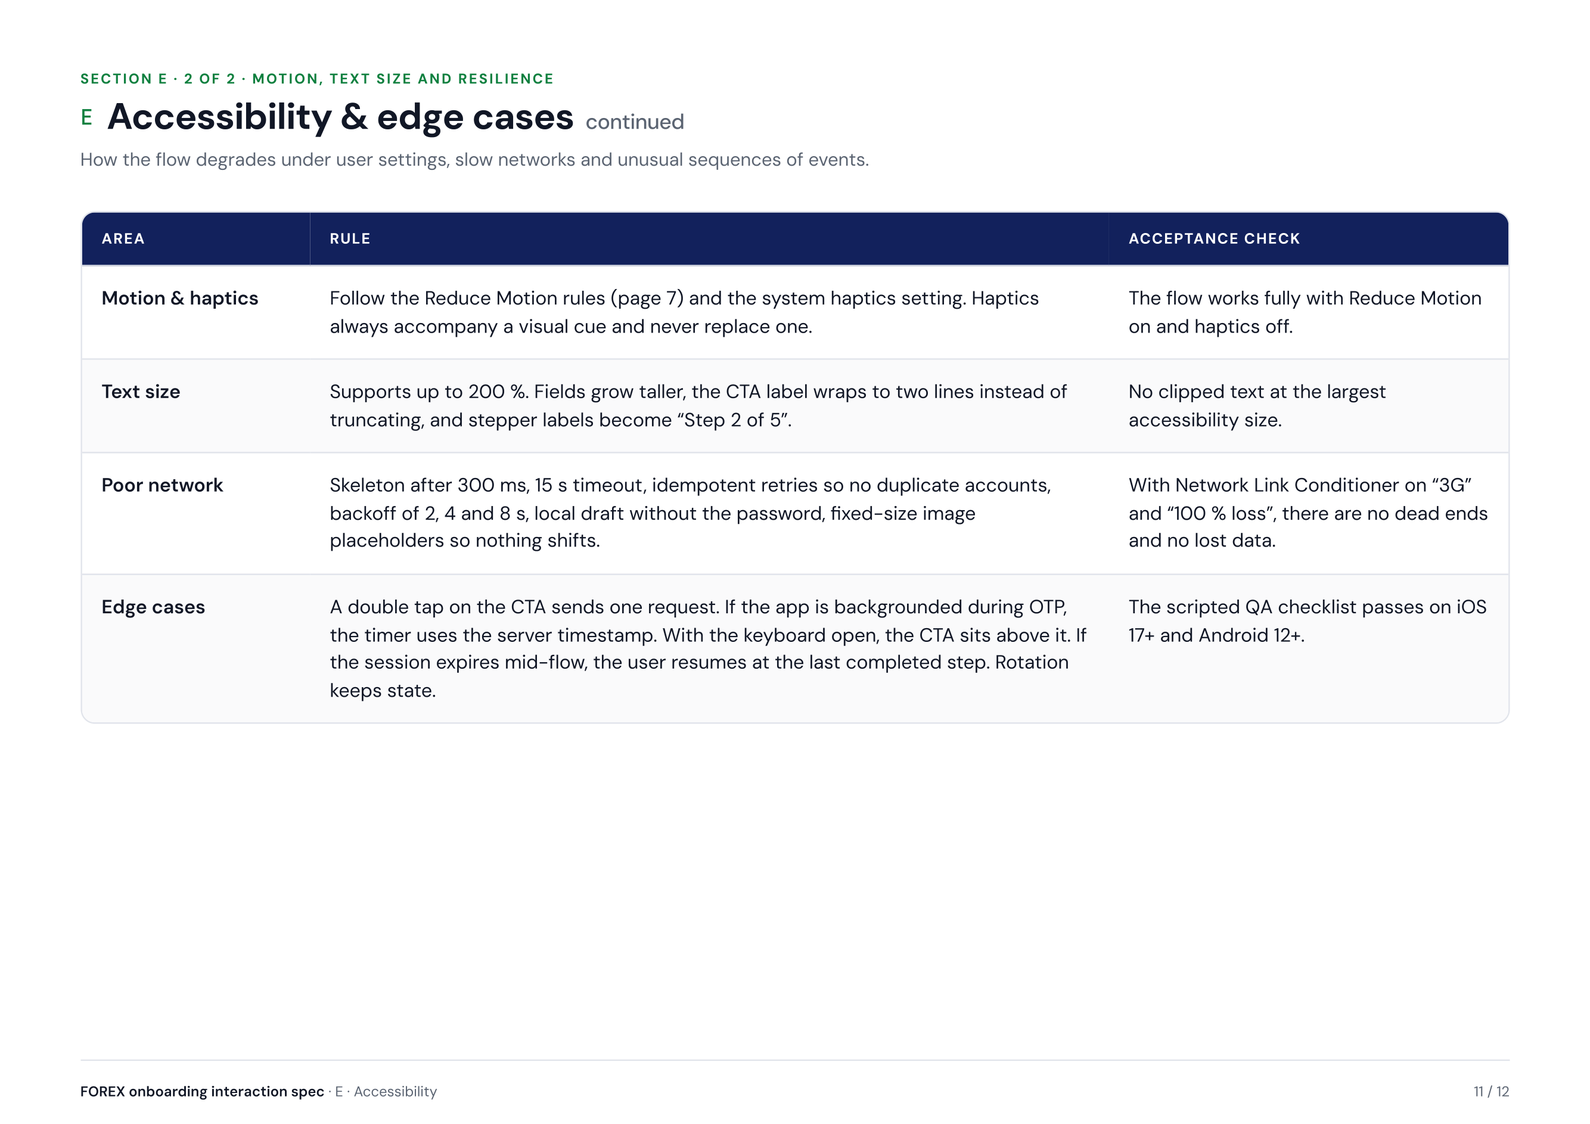
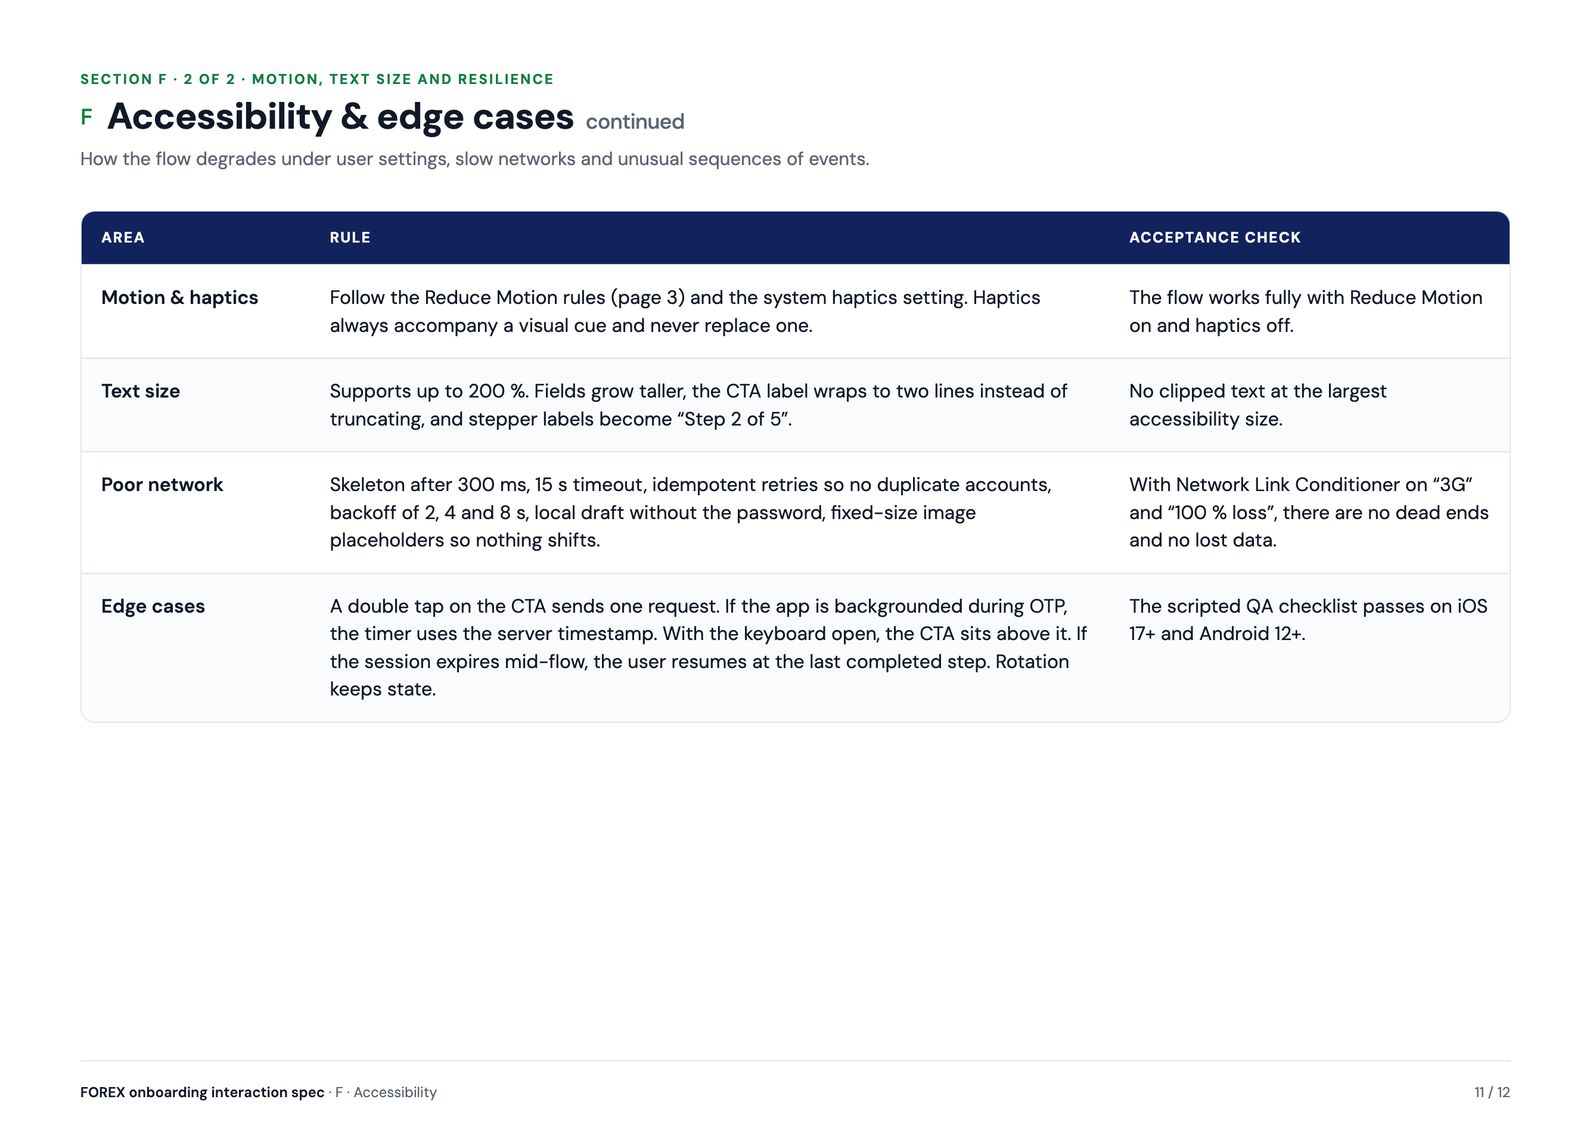
portfolio: handoff spec — reorder sections, link contents, live easing demos
- Move motion sections after Foundations; relabel all sections A–G
  (Principles is now A) and update the cover contents and page numbers
- Make each cover contents row a link that scrolls to its section
- Replace page 4 (B · Easing curves) with a live HTML page: looping
  easing examples, Replay buttons and a 4× slow-motion toggle

diff --git a/portfolio/interaction-design-handoff-spec.html b/portfolio/interaction-design-handoff-spec.html
@@ -7,7 +7,7 @@
   <meta name="description" content="Interaction design handoff specification by Jacek Waz — FOREX onboarding triggers, states, motion and accessibility." />
   <link rel="preconnect" href="https://fonts.googleapis.com" />
   <link rel="preconnect" href="https://fonts.gstatic.com" crossorigin />
-  <link href="https://fonts.googleapis.com/css2?family=ADLaM+Display&family=Inter:wght@400;500;600;700;800&display=swap" rel="stylesheet" />
+  <link href="https://fonts.googleapis.com/css2?family=ADLaM+Display&family=Inter:wght@400;500;600;700;800&family=DM+Sans:opsz,wght@9..40,400;9..40,500;9..40,600;9..40,700&family=JetBrains+Mono:wght@400;500&display=swap" rel="stylesheet" />
 
   <style>
     /* =========================================================
@@ -191,6 +191,114 @@
       border-radius:12px;
       border:1px solid #E7E7E5;        /* white PDF pages on a white panel */
     }
+
+    /* ---------- Cover: clickable Contents rows over the image ---------- */
+    .gallery__cover{ position:relative; }
+    .toc-link{
+      position:absolute;
+      left:61%;                        /* Contents rows, as % of the cover image */
+      width:30.8%;
+      height:4.1%;
+      border-radius:6px;
+      transition:background-color .18s ease;
+    }
+    .toc-link:hover{ background:rgba(255,255,255,.08); }
+    .toc-link:focus-visible{ outline:2px solid var(--blue); outline-offset:2px; }
+
+    /* ---------- Live page: B · Easing curves (animated, replaces 4.png) ----------
+       Laid out at the print page size (297 × 210 mm = 1122.5 × 793.7 px) with the
+       spec's own styles, then scaled to the gallery width like the PNG pages. */
+    .mip-wrap{
+      position:relative;
+      width:100%;
+      aspect-ratio:2668 / 1886;
+      overflow:hidden;
+      border-radius:12px;
+      border:1px solid #E7E7E5;
+      background:#FFFFFF;
+    }
+    .mip{
+      --fg:#111827; --muted:#5B6472; --line:#E1E5EB; --surface:#FFFFFF; --surface-2:#F1F3F6;
+      --navy:#12225C; --brand:#10803F; --brand-soft:#E8F5EE; --warn:#B45309; --warn-soft:#FFF7E6;
+      --mono:"JetBrains Mono", ui-monospace, "SF Mono", Menlo, monospace;
+      --slow:1;
+      --ease-enter:cubic-bezier(0.2, 0, 0, 1);
+      --ease-exit:cubic-bezier(0.3, 0, 1, 1);
+      --ease-standard:cubic-bezier(0.4, 0, 0.2, 1);
+      --ease-success:cubic-bezier(0.34, 1.56, 0.64, 1);
+      position:absolute; top:0; left:0;
+      width:1122.5px; height:793.7px;
+      transform:scale(var(--k, 1)); transform-origin:top left;
+      padding:49px 57px 0;
+      display:flex; flex-direction:column;
+      font-family:"DM Sans", ui-sans-serif, system-ui, sans-serif;
+      font-size:12px; line-height:1.45; color:var(--fg);
+      -webkit-font-smoothing:antialiased;
+    }
+    .mip code{ font-family:var(--mono); font-size:.88em; }
+    .mip-ph{ display:flex; flex-direction:column; gap:4px; margin-bottom:22px; }
+    .mip-eyebrow{ font-size:10px; font-weight:700; letter-spacing:.12em; text-transform:uppercase; color:var(--brand); }
+    .mip h2{ margin:0; font-size:26px; line-height:1.15; letter-spacing:-.01em; font-weight:700; }
+    .mip h2 .mip-tag{ font-family:var(--mono); font-size:15px; font-weight:500; color:var(--brand); margin-right:10px; vertical-align:3px; }
+    .mip-lede{ margin:2px 0 0; color:var(--muted); font-size:13px; max-width:756px; }
+
+    .mip-bar{ display:flex; align-items:center; justify-content:space-between; gap:24px; margin-bottom:14px; }
+    .mip-bar p{ margin:0; color:var(--muted); font-size:12.5px; max-width:640px; }
+    .mip-slowmo{ display:inline-flex; align-items:center; gap:8px; font-size:12.5px; font-weight:600; cursor:pointer; white-space:nowrap; }
+    .mip-slowmo input{ width:15px; height:15px; margin:0; accent-color:var(--brand); cursor:pointer; }
+
+    .mip-curves{ display:grid; grid-template-columns:repeat(4, minmax(0, 1fr)); gap:19px; }
+    .mip-curve{ display:flex; flex-direction:column; min-width:0; border:1px solid var(--line); border-radius:12px; padding:14px 16px; }
+    .mip-curve > svg{ display:block; height:150px; width:auto; align-self:flex-start; margin-bottom:10px; overflow:visible; }
+    .mip-curve h3{ margin:0 0 2px; font-size:15px; }
+    .mip-curve > p{ margin:0; font-size:11px; color:var(--muted); white-space:nowrap; }
+
+    .mip-demo{ margin:12px 0 0; }
+    .mip-screen{ position:relative; height:180px; border-radius:12px; background:var(--surface-2); border:1px solid var(--line); overflow:hidden; }
+    .mip-ghost, .mip-content{ position:absolute; top:12px; left:12px; right:12px; display:grid; gap:7px; }
+    .mip-ghost i, .mip-content i{ display:block; height:7px; border-radius:4px; background:#DDE1E7; }
+    .mip-ghost i.field, .mip-content i.field{ height:22px; border-radius:6px; background:var(--surface); border:1px solid var(--line); }
+    .mip-content i.cta{ height:22px; border-radius:999px; background:var(--brand); margin-top:2px; }
+    .mip-ghost i.otp{ height:26px; background:none; display:grid; grid-template-columns:repeat(6, 1fr); gap:4px; }
+    .mip-ghost i.otp s{ border-radius:5px; background:var(--surface); border:1px solid var(--line); }
+
+    .mip-scrim{ position:absolute; inset:0; background:rgba(17,24,39,.4); opacity:0; }
+    .mip-sheet{ position:absolute; left:0; right:0; bottom:0; display:grid; gap:2px; padding:6px 10px 8px; background:var(--surface); border-radius:14px 14px 0 0; box-shadow:0 -6px 18px rgba(0,0,0,.15); font-size:11px; transform:translateY(100%); }
+    .mip-grab{ width:26px; height:3px; border-radius:2px; background:var(--line); justify-self:center; margin-bottom:3px; }
+    .mip-sheet b{ font-size:11.5px; margin-bottom:2px; }
+    .mip-row{ display:flex; align-items:center; gap:6px; padding:3px 5px; border-radius:7px; }
+    .mip-row.sel{ background:var(--brand-soft); font-weight:600; }
+    .mip-row em{ font-style:normal; font-size:8px; font-weight:700; color:var(--muted); width:17px; height:17px; border-radius:50%; background:var(--surface-2); display:grid; place-items:center; flex:none; }
+    .mip-row small{ margin-left:auto; color:var(--muted); font-size:11px; }
+    .mip-demo.play .mip-scrim{ opacity:1; transition:opacity calc(320ms * var(--slow)) var(--ease-enter); }
+    .mip-demo.play .mip-sheet{ transform:none; transition:transform calc(320ms * var(--slow)) var(--ease-enter); }
+
+    .mip-toast{ position:absolute; left:9px; right:9px; bottom:9px; display:flex; align-items:center; gap:7px; padding:8px 10px; background:#111827; color:#fff; border-radius:10px; font-size:11px; box-shadow:0 6px 16px rgba(0,0,0,.25); }
+    .mip-toast .info{ width:13px; height:13px; border-radius:50%; background:#70747D; flex:none; display:grid; place-items:center; }
+    .mip-toast .info svg{ width:9px; height:9px; display:block; }
+    .mip-demo.play .mip-toast{ transform:translateY(calc(100% + 20px)); opacity:0; transition:transform calc(250ms * var(--slow)) var(--ease-exit), opacity calc(250ms * var(--slow)) var(--ease-exit); }
+
+    .mip-banner{ position:absolute; top:0; left:0; right:0; height:28px; display:flex; align-items:center; gap:7px; padding:0 10px; background:var(--warn-soft); color:var(--warn); font-size:11px; font-weight:600; transform:translateY(-100%); }
+    .mip-wifi{ width:9px; height:9px; border-radius:50%; border:2px solid currentColor; flex:none; }
+    .mip-demo.play .mip-banner{ transform:none; transition:transform calc(250ms * var(--slow)) var(--ease-standard); }
+    .mip-demo.play .mip-content{ transform:translateY(28px); transition:transform calc(250ms * var(--slow)) var(--ease-standard); }
+
+    .mip-screen.center{ display:grid; place-items:center; align-content:center; gap:8px; }
+    .mip-check{ width:52px; height:52px; opacity:0; transform:scale(.6); }
+    .mip-check circle{ fill:var(--brand); }
+    .mip-check path{ fill:none; stroke:#fff; stroke-width:5; stroke-linecap:round; stroke-linejoin:round; stroke-dasharray:40; stroke-dashoffset:40; }
+    .mip-done{ font-size:13px; opacity:0; }
+    .mip-demo.play .mip-check{ opacity:1; transform:none; transition:transform calc(400ms * var(--slow)) var(--ease-success), opacity calc(150ms * var(--slow)) linear; }
+    .mip-demo.play .mip-check path{ stroke-dashoffset:0; transition:stroke-dashoffset calc(300ms * var(--slow)) var(--ease-enter) calc(150ms * var(--slow)); }
+    .mip-demo.play .mip-done{ opacity:1; transition:opacity calc(200ms * var(--slow)) linear calc(250ms * var(--slow)); }
+
+    .mip-demo figcaption{ display:flex; align-items:center; justify-content:space-between; gap:8px; margin-top:8px; font-size:11px; color:var(--muted); }
+    .mip-replay{ font:inherit; font-size:11px; font-weight:600; color:var(--brand); background:none; border:1px solid var(--line); border-radius:999px; padding:3px 10px; cursor:pointer; white-space:nowrap; transition:background-color .18s ease; }
+    .mip-replay:hover{ background:var(--brand-soft); }
+    .mip-replay:focus-visible, .mip-slowmo input:focus-visible{ outline:2px solid #0955B5; outline-offset:2px; }
+
+    .mip-pf{ flex:none; height:45px; margin-top:auto; display:flex; align-items:center; justify-content:space-between; border-top:1px solid var(--line); font-size:10px; color:var(--muted); }
+    .mip-pf b{ color:var(--fg); font-weight:600; }
   </style>
 </head>
 <body>
@@ -239,6 +347,75 @@
    </div>
   </div>
 
+  <!-- Live page 4 (B · Easing curves): rendered in place of 4.png by the gallery script -->
+  <template id="live-motion">
+    <section class="mip-wrap" aria-label="B · Easing curves in the interface">
+      <div class="mip">
+        <header class="mip-ph">
+          <div class="mip-eyebrow">Section B · Motion in practice</div>
+          <h2><span class="mip-tag">B</span>Easing curves in the interface</h2>
+          <p class="mip-lede">Each curve with the onboarding moment it drives. Charts plot progress (vertical) over time (horizontal); the dashed line is the end state.</p>
+        </header>
+        <div class="mip-bar">
+          <p>Each curve has a live example from this onboarding. Examples loop while they are on screen; turn on slow motion to see the shape of the curve.</p>
+          <label class="mip-slowmo"><input type="checkbox" class="mip-slow-toggle"> Slow motion (4×)</label>
+        </div>
+        <div class="mip-curves">
+          <div class="mip-curve">
+            <svg viewBox="0 -26 120 146" aria-hidden="true"><path d="M10 110 L10 -20 M10 110 L110 110" fill="none" stroke="#E1E5EB" stroke-width="1.5"/><path d="M10 10 L110 10" stroke="#E1E5EB" stroke-width="1.5" stroke-dasharray="3 4"/><path d="M10 110 C30 110 10 10 110 10" fill="none" stroke="#10803F" stroke-width="3" stroke-linecap="round"/></svg>
+            <h3>Emphasized decelerate</h3><p>Enter · <code>0.2, 0, 0, 1</code></p>
+            <figure class="mip-demo play" data-demo="enter">
+              <div class="mip-screen" aria-hidden="true">
+                <div class="mip-ghost"><i style="width:62%"></i><i style="width:86%"></i><i class="field"></i><i class="field"></i></div>
+                <div class="mip-scrim"></div>
+                <div class="mip-sheet"><span class="mip-grab"></span><b>Select country code</b>
+                  <span class="mip-row sel"><em>PL</em>Poland<small>+48</small></span>
+                  <span class="mip-row"><em>DE</em>Germany<small>+49</small></span>
+                  <span class="mip-row"><em>GB</em>United Kingdom<small>+44</small></span>
+                </div>
+              </div>
+              <figcaption><span>Country sheet slides in · 320 ms</span><button type="button" class="mip-replay" aria-label="Replay country sheet animation">Replay</button></figcaption>
+            </figure>
+          </div>
+          <div class="mip-curve">
+            <svg viewBox="0 -26 120 146" aria-hidden="true"><path d="M10 110 L10 -20 M10 110 L110 110" fill="none" stroke="#E1E5EB" stroke-width="1.5"/><path d="M10 10 L110 10" stroke="#E1E5EB" stroke-width="1.5" stroke-dasharray="3 4"/><path d="M10 110 C40 110 110 10 110 10" fill="none" stroke="#10803F" stroke-width="3" stroke-linecap="round"/></svg>
+            <h3>Accelerate</h3><p>Exit · <code>0.3, 0, 1, 1</code></p>
+            <figure class="mip-demo" data-demo="exit">
+              <div class="mip-screen" aria-hidden="true">
+                <div class="mip-ghost"><i style="width:62%"></i><i style="width:86%"></i><i class="otp"><s></s><s></s><s></s><s></s><s></s><s></s></i></div>
+                <div class="mip-toast"><span class="info"><svg viewBox="0 0 16 16" fill="none" stroke="#fff" stroke-width="1.5" stroke-linecap="round" aria-hidden="true"><circle cx="8" cy="8" r="6.5"/><path d="M8 7.5v4"/><circle cx="8" cy="5" r=".4" fill="#fff"/></svg></span>Code sent to +48 ••• 123</div>
+              </div>
+              <figcaption><span>Toast leaves the screen · 250 ms</span><button type="button" class="mip-replay" aria-label="Replay toast animation">Replay</button></figcaption>
+            </figure>
+          </div>
+          <div class="mip-curve">
+            <svg viewBox="0 -26 120 146" aria-hidden="true"><path d="M10 110 L10 -20 M10 110 L110 110" fill="none" stroke="#E1E5EB" stroke-width="1.5"/><path d="M10 10 L110 10" stroke="#E1E5EB" stroke-width="1.5" stroke-dasharray="3 4"/><path d="M10 110 C50 110 30 10 110 10" fill="none" stroke="#10803F" stroke-width="3" stroke-linecap="round"/></svg>
+            <h3>Standard</h3><p>On-screen move · <code>0.4, 0, 0.2, 1</code></p>
+            <figure class="mip-demo play" data-demo="move">
+              <div class="mip-screen" aria-hidden="true">
+                <div class="mip-banner"><span class="mip-wifi"></span>No internet connection</div>
+                <div class="mip-content"><i style="width:62%"></i><i style="width:86%"></i><i class="field"></i><i class="field"></i><i class="cta"></i></div>
+              </div>
+              <figcaption><span>Offline banner pushes content · 250 ms</span><button type="button" class="mip-replay" aria-label="Replay offline banner animation">Replay</button></figcaption>
+            </figure>
+          </div>
+          <div class="mip-curve">
+            <svg viewBox="0 -26 120 146" aria-hidden="true"><path d="M10 110 L10 -20 M10 110 L110 110" fill="none" stroke="#E1E5EB" stroke-width="1.5"/><path d="M10 10 L110 10" stroke="#E1E5EB" stroke-width="1.5" stroke-dasharray="3 4"/><path d="M10 110 C44 -46 74 10 110 10" fill="none" stroke="#10803F" stroke-width="3" stroke-linecap="round"/></svg>
+            <h3>Overshoot</h3><p>Completion · <code>0.34, 1.56, 0.64, 1</code></p>
+            <figure class="mip-demo play" data-demo="success">
+              <div class="mip-screen center" aria-hidden="true">
+                <svg class="mip-check" viewBox="0 0 64 64"><circle cx="32" cy="32" r="30"/><path d="M20 33 L28 41 L44 24"/></svg>
+                <b class="mip-done">Account created</b>
+              </div>
+              <figcaption><span>Success check pops in · 400 ms</span><button type="button" class="mip-replay" aria-label="Replay success animation">Replay</button></figcaption>
+            </figure>
+          </div>
+        </div>
+        <footer class="mip-pf"><span><b>FOREX onboarding interaction spec</b> · B · Easing curves</span><span>4 / 12</span></footer>
+      </div>
+    </section>
+  </template>
+
   <script>
     /* -----------------------------------------------------------------
        Gallery images.
@@ -251,17 +428,29 @@
 
     var IMAGES = [
       { file: "1.png", alt: "Cover — FOREX onboarding interaction spec, with contents" },
-      { file: "2.png", alt: "Principles and open decision" },
-      { file: "3.png", alt: "A · Triggers and responses — account creation controls" },
-      { file: "4.png", alt: "A · Triggers and responses — gestures, sheets and network" },
-      { file: "5.png", alt: "B · State logic matrix — idle, loading and success" },
-      { file: "6.png", alt: "B · State logic matrix — errors, offline and empty" },
-      { file: "7.png", alt: "C · Animation and timing tokens" },
-      { file: "8.png", alt: "C · Easing curves in the interface" },
-      { file: "9.png", alt: "D · Submission timeline" },
-      { file: "10.png", alt: "E · Accessibility and edge cases — targets, focus and announcements" },
-      { file: "11.png", alt: "E · Accessibility and edge cases — motion, text size and resilience" },
-      { file: "12.png", alt: "F · Prototype flows and components" }
+      { file: "2.png", alt: "A · Principles and open decision" },
+      { file: "3.png", alt: "B · Animation and timing tokens" },
+      { file: "4.png", alt: "B · Easing curves in the interface", live: "live-motion" },
+      { file: "5.png", alt: "C · Submission timeline" },
+      { file: "6.png", alt: "D · Triggers and responses — account creation controls" },
+      { file: "7.png", alt: "D · Triggers and responses — gestures, sheets and network" },
+      { file: "8.png", alt: "E · State logic matrix — idle, loading and success" },
+      { file: "9.png", alt: "E · State logic matrix — errors, offline and empty" },
+      { file: "10.png", alt: "F · Accessibility and edge cases — targets, focus and announcements" },
+      { file: "11.png", alt: "F · Accessibility and edge cases — motion, text size and resilience" },
+      { file: "12.png", alt: "G · Prototype flows and components" }
+    ];
+
+    /* Cover Contents rows → target page (rows top to bottom, % from image top) */
+    var TOC = [
+      { page: 2,  top: 25.2, label: "A · Principles and open decision" },
+      { page: 3,  top: 29.4, label: "B · Animation and timing tokens" },
+      { page: 4,  top: 33.5, label: "B · Easing curves in the interface" },
+      { page: 5,  top: 37.6, label: "C · Submission timeline" },
+      { page: 6,  top: 41.8, label: "D · Triggers and responses" },
+      { page: 8,  top: 45.9, label: "E · State logic matrix" },
+      { page: 10, top: 50.0, label: "F · Accessibility and edge cases" },
+      { page: 12, top: 54.1, label: "G · Prototype flows and components" }
     ];
 
     /* -----------------------------------------------------------------
@@ -290,18 +479,109 @@
       var gallery = document.getElementById('gallery');
       var frag = document.createDocumentFragment();
 
-      IMAGES.forEach(function (item){
+      IMAGES.forEach(function (item, i){
+        // Live HTML page in place of the PNG
+        if (item.live) {
+          var live = document.getElementById(item.live).content.firstElementChild.cloneNode(true);
+          live.id = 'page-' + (i + 1);
+          frag.appendChild(live);
+          return;
+        }
+
         var img = document.createElement('img');
         img.className = 'gallery__img';
+        img.id = 'page-' + (i + 1);
         img.src = IMAGE_DIR + item.file;
         img.alt = "Interaction Design - Handoff Specification \u2014 " + item.alt;
         img.decoding = 'async';
         // Each image grows the frame height, so re-fit once it has loaded.
         img.addEventListener('load', fit);
-        frag.appendChild(img);
+
+        if (i > 0) { frag.appendChild(img); return; }
+
+        // Cover: overlay a link on each Contents row
+        var cover = document.createElement('div');
+        cover.className = 'gallery__cover';
+        cover.appendChild(img);
+        TOC.forEach(function (row){
+          var a = document.createElement('a');
+          a.className = 'toc-link';
+          a.href = '#page-' + row.page;
+          a.style.top = row.top + '%';
+          a.setAttribute('aria-label', 'Go to ' + row.label);
+          cover.appendChild(a);
+        });
+        frag.appendChild(cover);
+      });
+
+      // The frame is CSS-scaled, so scroll by the rendered position, not the anchor
+      gallery.addEventListener('click', function (e){
+        var a = e.target.closest('.toc-link');
+        if (!a) return;
+        e.preventDefault();
+        var target = document.querySelector(a.getAttribute('href'));
+        window.scrollTo({ top: target.getBoundingClientRect().top + window.scrollY - 24, behavior: 'smooth' });
+        history.replaceState(null, '', a.getAttribute('href'));
       });
 
       gallery.appendChild(frag);
+    })();
+
+    /* -----------------------------------------------------------------
+       Live easing examples (page 4). Each demo shows its start state,
+       then gets .play so the CSS transition runs; demos loop while on
+       screen. Slow motion multiplies every duration by 4.
+    ----------------------------------------------------------------- */
+    (function liveMotion(){
+      var wrap = document.querySelector('.mip-wrap');
+      if (!wrap) return;
+      var page = wrap.querySelector('.mip');
+      var demos = [].slice.call(wrap.querySelectorAll('.mip-demo'));
+      var reduce = window.matchMedia('(prefers-reduced-motion: reduce)').matches;
+      var timers = new Map(), leads = new Map();
+      var slow = 1;
+
+      // Scale the 1122.5px print page to the gallery width (like the PNG pages)
+      function scalePage(){ page.style.setProperty('--k', wrap.clientWidth / 1122.5); }
+      scalePage();
+      window.addEventListener('resize', scalePage);
+
+      // The exit demo needs the toast on screen for a moment before it can leave
+      function play(d){
+        clearTimeout(leads.get(d));
+        d.classList.remove('play');
+        void d.offsetWidth;
+        var lead = d.dataset.demo === 'exit' ? 1100 * slow : 0;
+        if (lead) leads.set(d, setTimeout(function(){ d.classList.add('play'); }, lead));
+        else requestAnimationFrame(function(){ requestAnimationFrame(function(){ d.classList.add('play'); }); });
+      }
+      function loop(d){
+        clearTimeout(timers.get(d));
+        play(d);
+        timers.set(d, setTimeout(function(){ loop(d); }, 2600 * slow));
+      }
+      function stop(d){ clearTimeout(timers.get(d)); clearTimeout(leads.get(d)); timers.delete(d); }
+
+      demos.forEach(function (d){
+        d.querySelector('.mip-replay').addEventListener('click', function(){ reduce ? play(d) : loop(d); });
+      });
+      if (!reduce) {
+        if ('IntersectionObserver' in window) {
+          var io = new IntersectionObserver(function (entries){
+            entries.forEach(function (e){ e.isIntersecting ? loop(e.target) : stop(e.target); });
+          }, { threshold: 0.4 });
+          demos.forEach(function (d){ io.observe(d); });
+        } else {
+          demos.forEach(loop);
+        }
+      }
+
+      var cb = wrap.querySelector('.mip-slow-toggle');
+      cb.addEventListener('change', function(){
+        slow = cb.checked ? 4 : 1;
+        page.style.setProperty('--slow', slow);
+        Array.from(timers.keys()).forEach(loop);
+      });
     })();
 
     fit();
